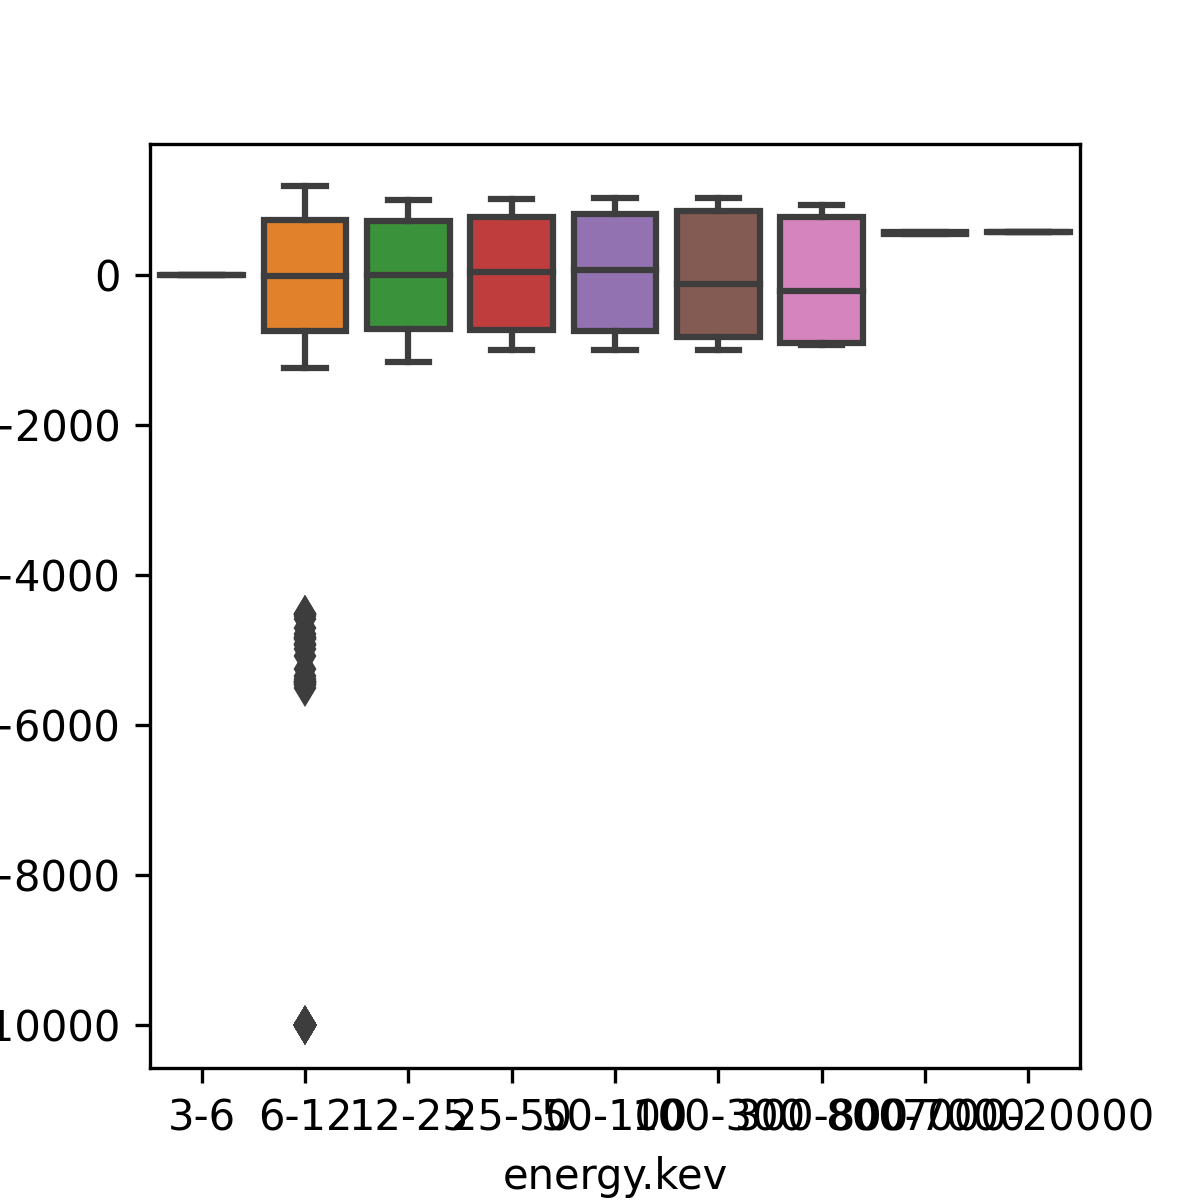
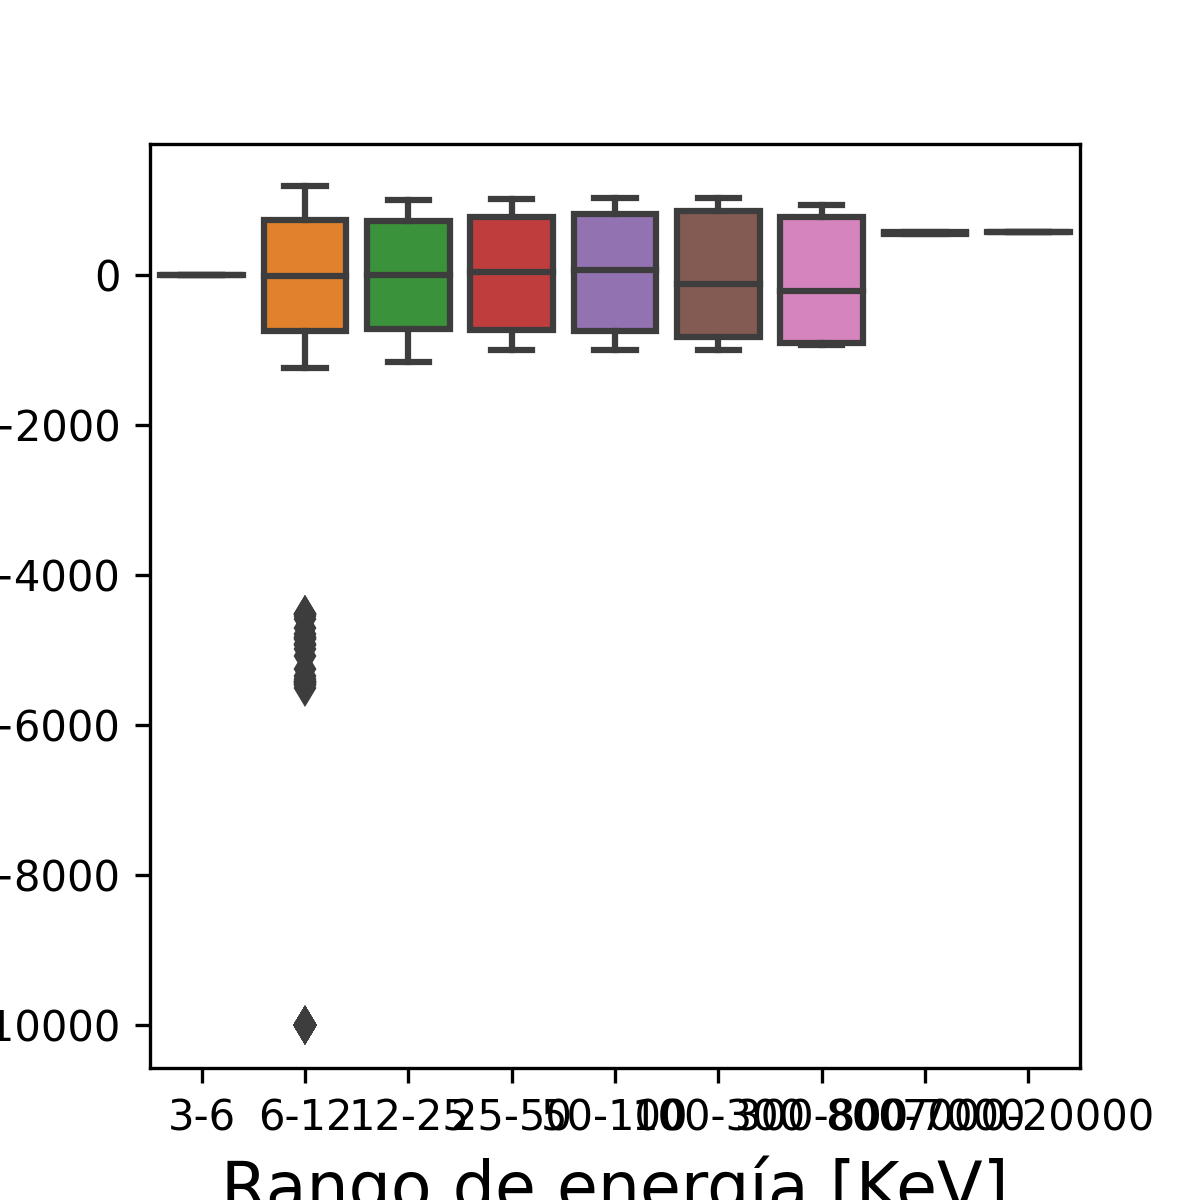
Correción de los label

Changed region(s): [[0.185, 0.9558, 0.8633, 1.0]]

diff --git a/EDA.py b/EDA.py
@@ -62,44 +62,54 @@ df["Eprom"]=Eprom
 ## Recuento de los eventos parar diferentes rangos de energía
 sns.countplot(x="energy.kev", data=df.sort_values('Eprom'), hue='energy.kev')
 plt.legend(title='Rango de energía [KeV]', loc='right', prop={'size': 8})
-plt.xlabel('Rango de energía (KeV)', fontsize=16)
+plt.xlabel('Rango de energía [KeV]', fontsize=16)
 plt.ylabel('Frecuencia', fontsize=16)
 plt.savefig("G1.png",dpi=300)
 
 ## Boxplot de las posiciones x,y
 plt.figure(figsize=(4,4), dpi = 150)
 sns.boxplot(data=df.sort_values('Eprom'), x='energy.kev', y="x.pos.asec")
+plt.ylabel('x [asec]', fontsize=16)
+plt.xlabel('Rango de energía [KeV]', fontsize=16)
 plt.savefig("G2.png",dpi=300)
 plt.figure(figsize=(4,4), dpi = 150)
 sns.boxplot(data=df.sort_values('Eprom'), x='energy.kev', y="y.pos.asec")
+plt.ylabel('y [asec]', fontsize=16)
+plt.xlabel('Rango de energía [KeV]', fontsize=16)
 plt.savefig("G3.png",dpi=300)
 
 ## Scatter e histograma para las posiciones x,y para diferentes rangos de energía
 sns.jointplot(data=df.sort_values('Eprom'), x="x.pos.asec", y="y.pos.asec",\
               hue="energy.kev",xlim=(-1500,1500),ylim=(-1500,1500),height=12)
+plt.ylabel('y [asec]', fontsize=16)
+plt.xlabel('x [asec]', fontsize=16)
 plt.savefig("G4.png",dpi=300)
 
 ## Boxplot de la duración de las llamaradas
 plt.figure(figsize=(4,4), dpi = 150)
 sns.boxplot(data=df.sort_values('Eprom'), x='energy.kev', y="duration.s")
-plt.savefig("G5 .png",dpi=300)
+plt.ylabel('Duración [s]', fontsize=16)
+plt.xlabel('Rango de energía [KeV]', fontsize=16)
+plt.savefig("G5.png",dpi=300)
 
 ## Distribución de la duración para diferentes rangos de energías
 plt.figure(figsize=(5,5), dpi = 150)
 sns.kdeplot(data=df.sort_values('Eprom'), x='duration.s', hue='energy.kev')
 plt.xlabel('Duración [s]')
-plt.ylabel('Densidad de energía')
+plt.ylabel('Densidad de energía [KeV]')
 plt.savefig("G6.png",dpi=300)
 
 ## Boxplot y distribución de de log(duration.s) para diferentes rangos de energía
 df["duration.sl"]=np.log(df["duration.s"])
 plt.figure(figsize=(4,4), dpi = 150)
 sns.boxplot(data=df.sort_values('Eprom'), x='energy.kev', y="duration.sl")
+plt.ylabel('log(Duración) [asec]', fontsize=16)
+plt.xlabel('Rango de energía [KeV]', fontsize=16)
 plt.savefig("G7.png",dpi=300)
 plt.figure(figsize=(5,5), dpi = 150)
 sns.kdeplot(data=df.sort_values('Eprom'), x='duration.sl', hue='energy.kev')
 plt.xlabel('log(Duración) [s]')
-plt.ylabel('Densidad de energía')
+plt.ylabel('Densidad de energía [KeV]')
 plt.savefig("G8.png",dpi=300)
 
 ## Filtro para rangos de energías con mayor frecuencia
